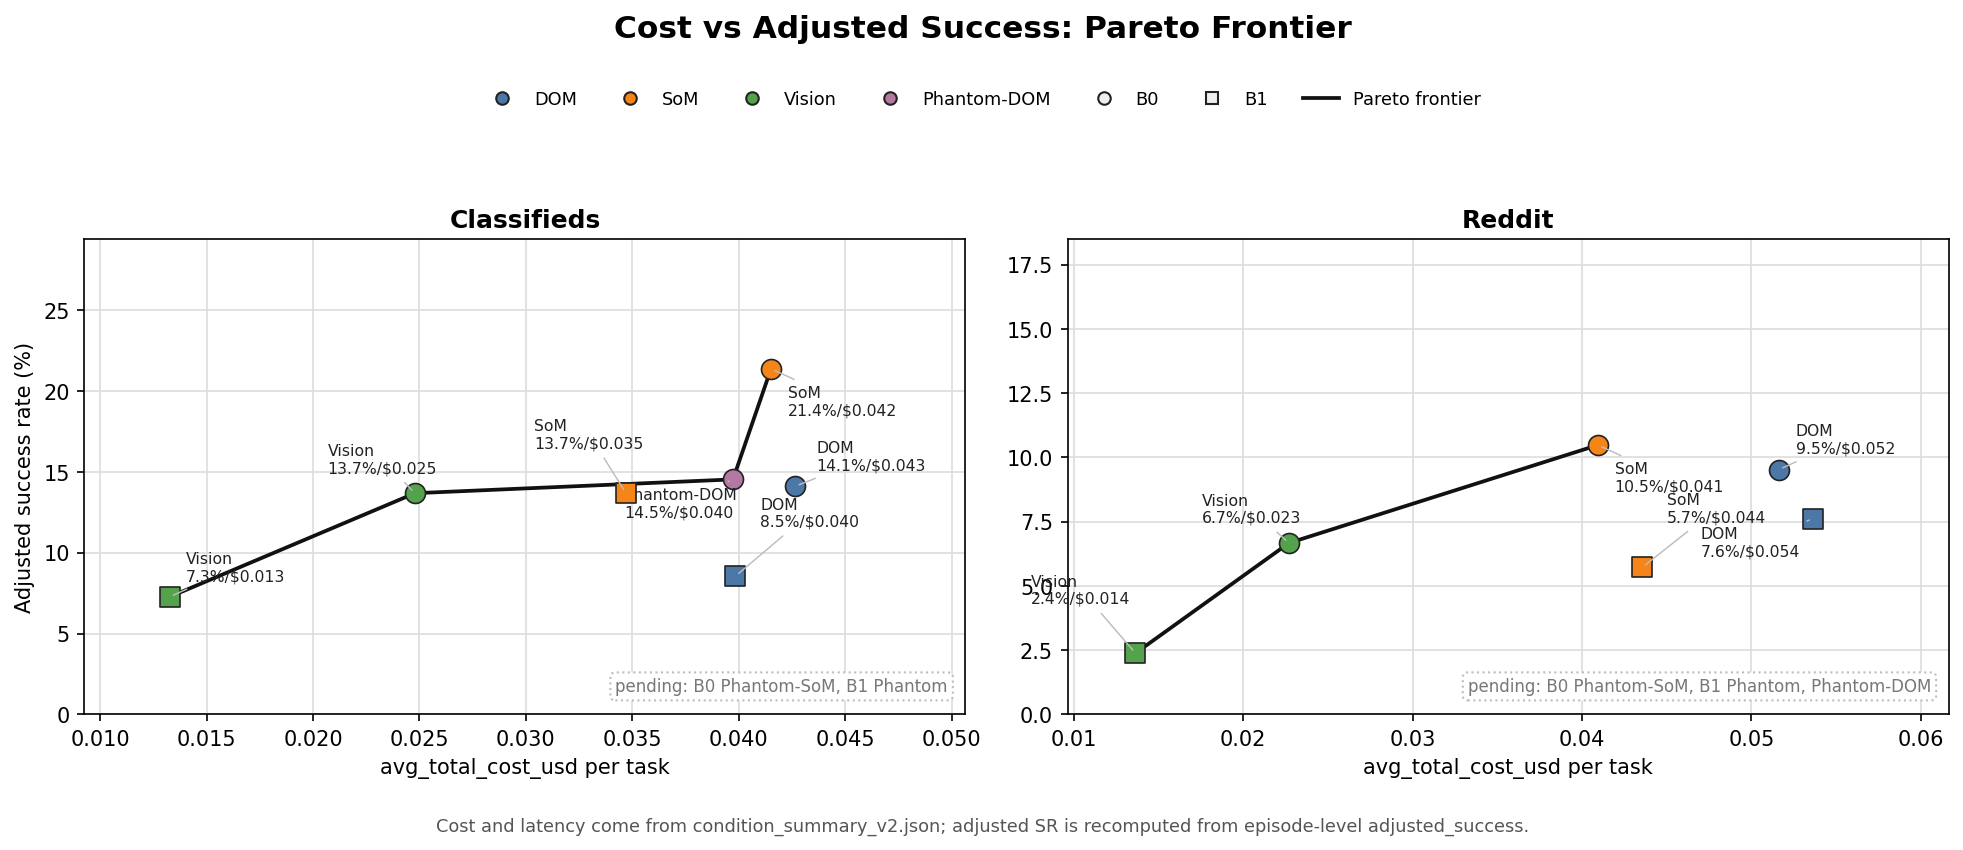
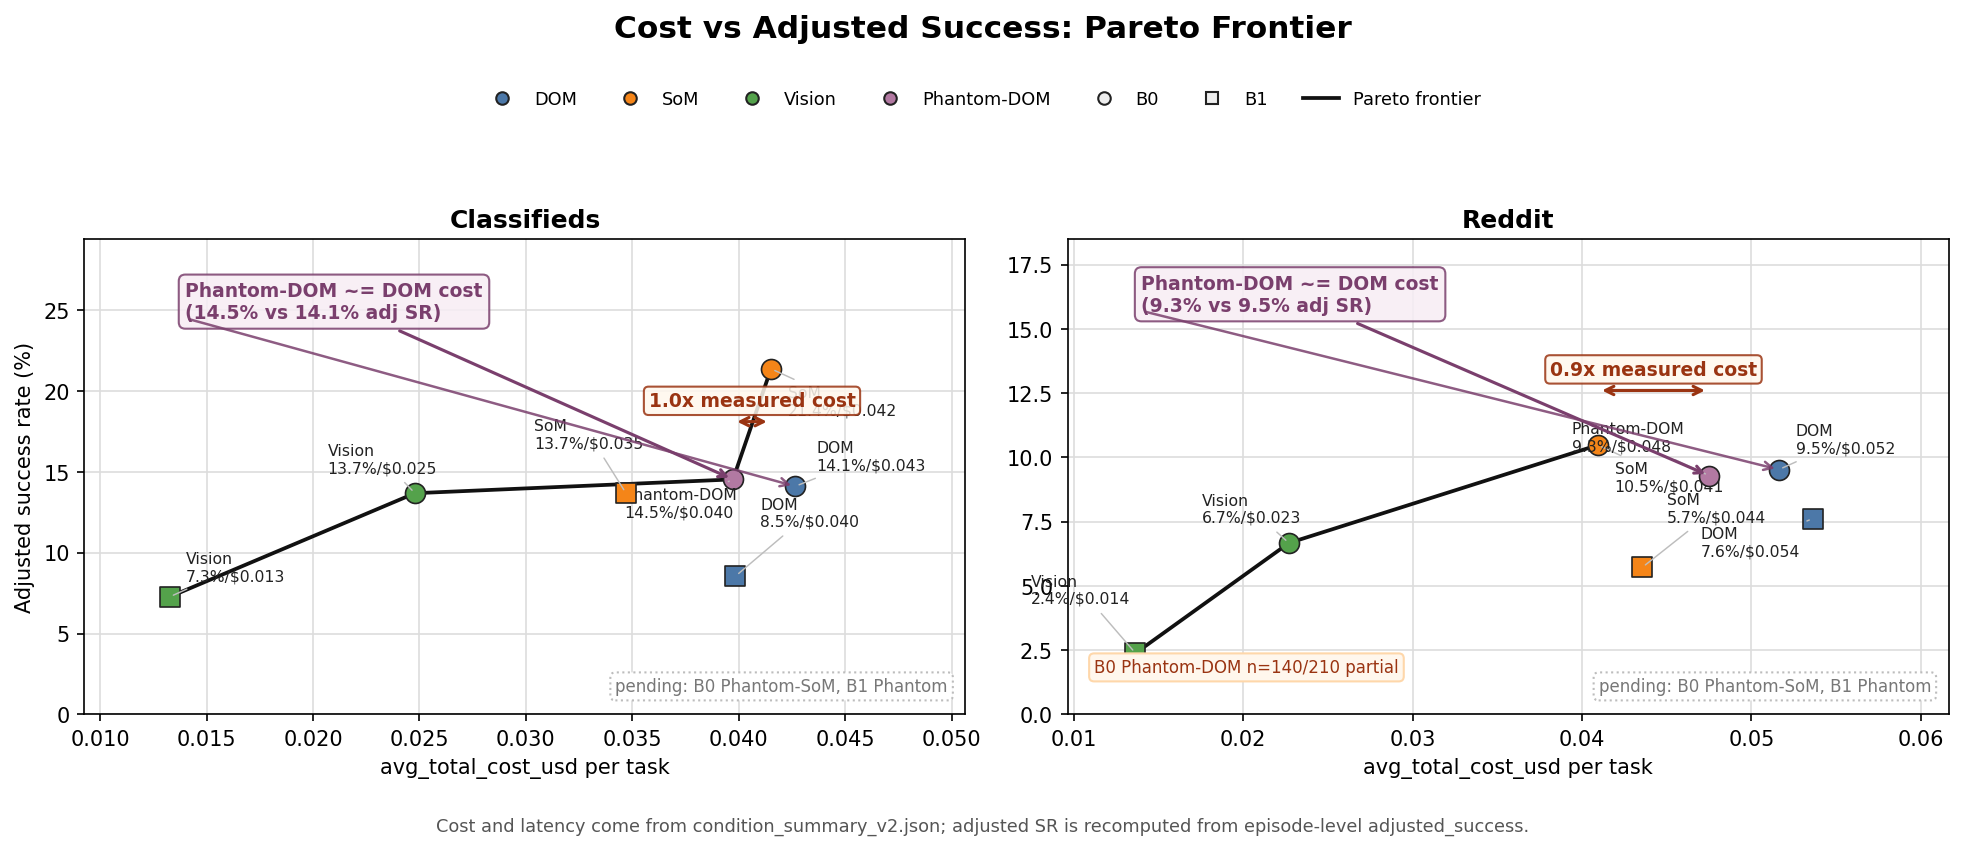
figs(fig7): add deployment-cost callouts (Phantom ≈ DOM cost emphasis)

diff --git a/scripts/analysis/figures/fig7_cost_sr_frontier.py b/scripts/analysis/figures/fig7_cost_sr_frontier.py
@@ -58,6 +58,7 @@ SPECS = [
     ConditionSpec("B0", "reddit", "DOM", RESULTS / "B0_3mode_reddit_20260422/phase1_dom_router_0", 210),
     ConditionSpec("B0", "reddit", "SoM", RESULTS / "B0_3mode_reddit_20260422/phase1_som_router_0", 210),
     ConditionSpec("B0", "reddit", "Vision", RESULTS / "B0_3mode_reddit_20260422/phase1_vision_router_0", 210),
+    ConditionSpec("B0", "reddit", "Phantom-DOM", RESULTS / "B0_phantom_dom_reddit_20260427/phase1_phantom_dom_router_0", 210),
     ConditionSpec("B1", "classifieds", "DOM", RESULTS / "B1_3mode_classifieds_20260413/phase1_dom_router_0", 234),
     ConditionSpec("B1", "classifieds", "SoM", RESULTS / "B1_3mode_classifieds_20260413/phase1_som_router_0", 234),
     ConditionSpec("B1", "classifieds", "Vision", RESULTS / "B1_3mode_classifieds_20260413/phase1_vision_router_0", 234),
@@ -74,11 +75,13 @@ def task_id(path: Path) -> int:
     return int(match.group(1))
 
 
-def load_adjusted_sr(condition_dir: Path) -> tuple[float, int]:
+def episode_summary(condition_dir: Path) -> dict[str, float | int | None]:
     episodes_dir = condition_dir / "episodes"
     files = sorted(episodes_dir.glob("*_summary_v2.json"))
     seen: set[int] = set()
     successes = 0
+    total_cost = total_model_cost = total_latency_ms = total_energy_kwh = 0.0
+    cost_n = model_cost_n = latency_n = energy_n = 0
     for path in files:
         tid = task_id(path)
         if tid in seen:
@@ -88,18 +91,48 @@ def load_adjusted_sr(condition_dir: Path) -> tuple[float, int]:
         with path.open() as f:
             record = json.load(f)
         successes += bool(record.get("adjusted_success", record.get("success", False)))
+        if record.get("total_cost_usd") is not None:
+            total_cost += float(record["total_cost_usd"])
+            cost_n += 1
+        if record.get("total_model_cost_usd") is not None:
+            total_model_cost += float(record["total_model_cost_usd"])
+            model_cost_n += 1
+        if record.get("total_latency_ms") is not None:
+            total_latency_ms += float(record["total_latency_ms"])
+            latency_n += 1
+        if record.get("total_energy_kwh") is not None:
+            total_energy_kwh += float(record["total_energy_kwh"])
+            energy_n += 1
     if not seen:
         raise FileNotFoundError(f"No episode summaries under {episodes_dir}")
-    return 100.0 * successes / len(seen), len(seen)
+    return {
+        "adjusted_sr": 100.0 * successes / len(seen),
+        "n": len(seen),
+        "avg_total_cost_usd": total_cost / cost_n if cost_n else None,
+        "avg_total_model_cost_usd": total_model_cost / model_cost_n if model_cost_n else None,
+        "avg_total_latency_ms": total_latency_ms / latency_n if latency_n else None,
+        "avg_total_energy_kwh": total_energy_kwh / energy_n if energy_n else None,
+    }
 
 
 def load_point(spec: ConditionSpec) -> Point | None:
     summary_path = spec.condition_dir / "condition_summary_v2.json"
-    if not summary_path.exists():
-        print(f"[warn] missing condition summary: {summary_path}", file=sys.stderr)
-        return None
-    with summary_path.open() as f:
-        summary = json.load(f)
+    ep_summary = episode_summary(spec.condition_dir)
+    if summary_path.exists():
+        with summary_path.open() as f:
+            summary = json.load(f)
+    else:
+        print(
+            f"[warn] missing condition summary, using episode-summary fallback: {summary_path}",
+            file=sys.stderr,
+        )
+        summary = {
+            "avg_total_cost_usd": ep_summary["avg_total_cost_usd"],
+            "avg_total_model_cost_usd": ep_summary["avg_total_model_cost_usd"],
+            "avg_total_latency_ms": ep_summary["avg_total_latency_ms"],
+            "avg_total_energy_kwh": ep_summary["avg_total_energy_kwh"],
+            "success_rate": None,
+        }
     cost = summary.get("avg_total_cost_usd")
     if cost is None or float(cost) <= 0:
         print(
@@ -108,7 +141,8 @@ def load_point(spec: ConditionSpec) -> Point | None:
             file=sys.stderr,
         )
         return None
-    adjusted_sr, n = load_adjusted_sr(spec.condition_dir)
+    adjusted_sr = float(ep_summary["adjusted_sr"])
+    n = int(ep_summary["n"])
     latency_ms = summary.get("avg_total_latency_ms")
     point = Point(
         model=spec.model,
@@ -157,6 +191,7 @@ def annotate_point(ax: plt.Axes, point: Point, index: int) -> None:
         ("reddit", "B0", "DOM"): (8, 8),
         ("reddit", "B0", "SoM"): (8, -22),
         ("reddit", "B0", "Vision"): (-42, 10),
+        ("reddit", "B0", "Phantom-DOM"): (-66, 12),
         ("reddit", "B1", "DOM"): (-54, -18),
         ("reddit", "B1", "SoM"): (12, 22),
         ("reddit", "B1", "Vision"): (-50, 24),
@@ -175,8 +210,6 @@ def annotate_point(ax: plt.Axes, point: Point, index: int) -> None:
 
 def draw_pending(ax: plt.Axes, site: str) -> None:
     pending = "pending: B0 Phantom-SoM, B1 Phantom"
-    if site == "reddit":
-        pending += ", Phantom-DOM"
     ax.text(
         0.98,
         0.04,
@@ -187,6 +220,88 @@ def draw_pending(ax: plt.Axes, site: str) -> None:
         fontsize=8,
         color="#777777",
         bbox={"boxstyle": "round,pad=0.3", "facecolor": "white", "edgecolor": "#bdbdbd", "linestyle": "dotted"},
+    )
+
+
+def point_by(points: list[Point], site: str, model: str, mode: str) -> Point | None:
+    return next((point for point in points if point.site == site and point.model == model and point.mode == mode), None)
+
+
+def add_deployment_callouts(ax: plt.Axes, site: str, site_points: list[Point]) -> None:
+    dom = point_by(site_points, site, "B0", "DOM")
+    som = point_by(site_points, site, "B0", "SoM")
+    phantom = point_by(site_points, site, "B0", "Phantom-DOM")
+    if not dom or not som or not phantom:
+        print(f"[warn] {site}: deployment callout skipped; missing DOM/SoM/Phantom-DOM point", file=sys.stderr)
+        return
+
+    color = "#7a3f6d"
+    if site == "classifieds":
+        box_xy = (0.014, 24.5)
+        arrow_y = 18.1
+        label_y_offset = 0.7
+    else:
+        box_xy = (0.014, 15.7)
+        arrow_y = 12.6
+        label_y_offset = 0.45
+
+    callout = (
+        "Phantom-DOM ~= DOM cost\n"
+        f"({phantom.adjusted_sr:.1f}% vs {dom.adjusted_sr:.1f}% adj SR)"
+    )
+    ax.annotate(
+        callout,
+        xy=(phantom.cost, phantom.adjusted_sr),
+        xytext=box_xy,
+        textcoords="data",
+        fontsize=9,
+        fontweight="bold",
+        color=color,
+        bbox={"boxstyle": "round,pad=0.35", "facecolor": "#f7edf4", "edgecolor": color, "alpha": 0.85},
+        arrowprops={"arrowstyle": "->", "color": color, "lw": 1.5},
+        zorder=5,
+    )
+    ax.annotate(
+        "",
+        xy=(dom.cost, dom.adjusted_sr),
+        xytext=box_xy,
+        textcoords="data",
+        arrowprops={"arrowstyle": "->", "color": color, "lw": 1.2, "alpha": 0.85},
+        zorder=5,
+    )
+
+    ratio = som.cost / phantom.cost
+    label = f"{ratio:.1f}x measured cost"
+    if abs(ratio - 3.5) > 0.4:
+        print(
+            f"[warn] {site}: requested ~3.5x SoM/Phantom-DOM cost gap is not in "
+            f"avg_total_cost_usd; live ratio={ratio:.2f}x",
+            file=sys.stderr,
+        )
+    x0, x1 = sorted([phantom.cost, som.cost])
+    ax.annotate(
+        "",
+        xy=(x1, arrow_y),
+        xytext=(x0, arrow_y),
+        arrowprops={"arrowstyle": "<->", "color": "#9a3412", "lw": 1.5},
+        zorder=4,
+    )
+    ax.text(
+        (x0 + x1) / 2,
+        arrow_y + label_y_offset,
+        label,
+        ha="center",
+        va="bottom",
+        fontsize=9,
+        color="#9a3412",
+        fontweight="bold",
+        bbox={"boxstyle": "round,pad=0.25", "facecolor": "#fff7ed", "edgecolor": "#9a3412", "alpha": 0.85},
+        zorder=5,
+    )
+    print(
+        f"[annot] {site}: callout_box={box_xy} DOM=({dom.cost:.4f},{dom.adjusted_sr:.2f}) "
+        f"Phantom-DOM=({phantom.cost:.4f},{phantom.adjusted_sr:.2f}) "
+        f"SoM=({som.cost:.4f},{som.adjusted_sr:.2f}) ratio={ratio:.2f}x arrow_y={arrow_y}"
     )
 
 
@@ -230,13 +345,15 @@ def draw_site(ax: plt.Axes, site: str, points: list[Point]) -> None:
     partials = [point for point in site_points if point.n != point.expected_n]
     if partials:
         partial_text = "\n".join(f"{p.model} {p.mode} n={p.n}/{p.expected_n} partial" for p in partials)
+        partial_y = 0.08 if site == "reddit" else 0.96
+        partial_va = "bottom" if site == "reddit" else "top"
         ax.text(
             0.03,
-            0.96,
+            partial_y,
             partial_text,
             transform=ax.transAxes,
             ha="left",
-            va="top",
+            va=partial_va,
             fontsize=8,
             color="#9a3412",
             bbox={"boxstyle": "round,pad=0.3", "facecolor": "#fff7ed", "edgecolor": "#fed7aa"},
@@ -252,6 +369,7 @@ def draw_site(ax: plt.Axes, site: str, points: list[Point]) -> None:
     ax.grid(color="#dddddd", linewidth=0.8)
     ax.set_axisbelow(True)
     ax.set_xlabel("avg_total_cost_usd per task")
+    add_deployment_callouts(ax, site, site_points)
 
 
 def main() -> None:
